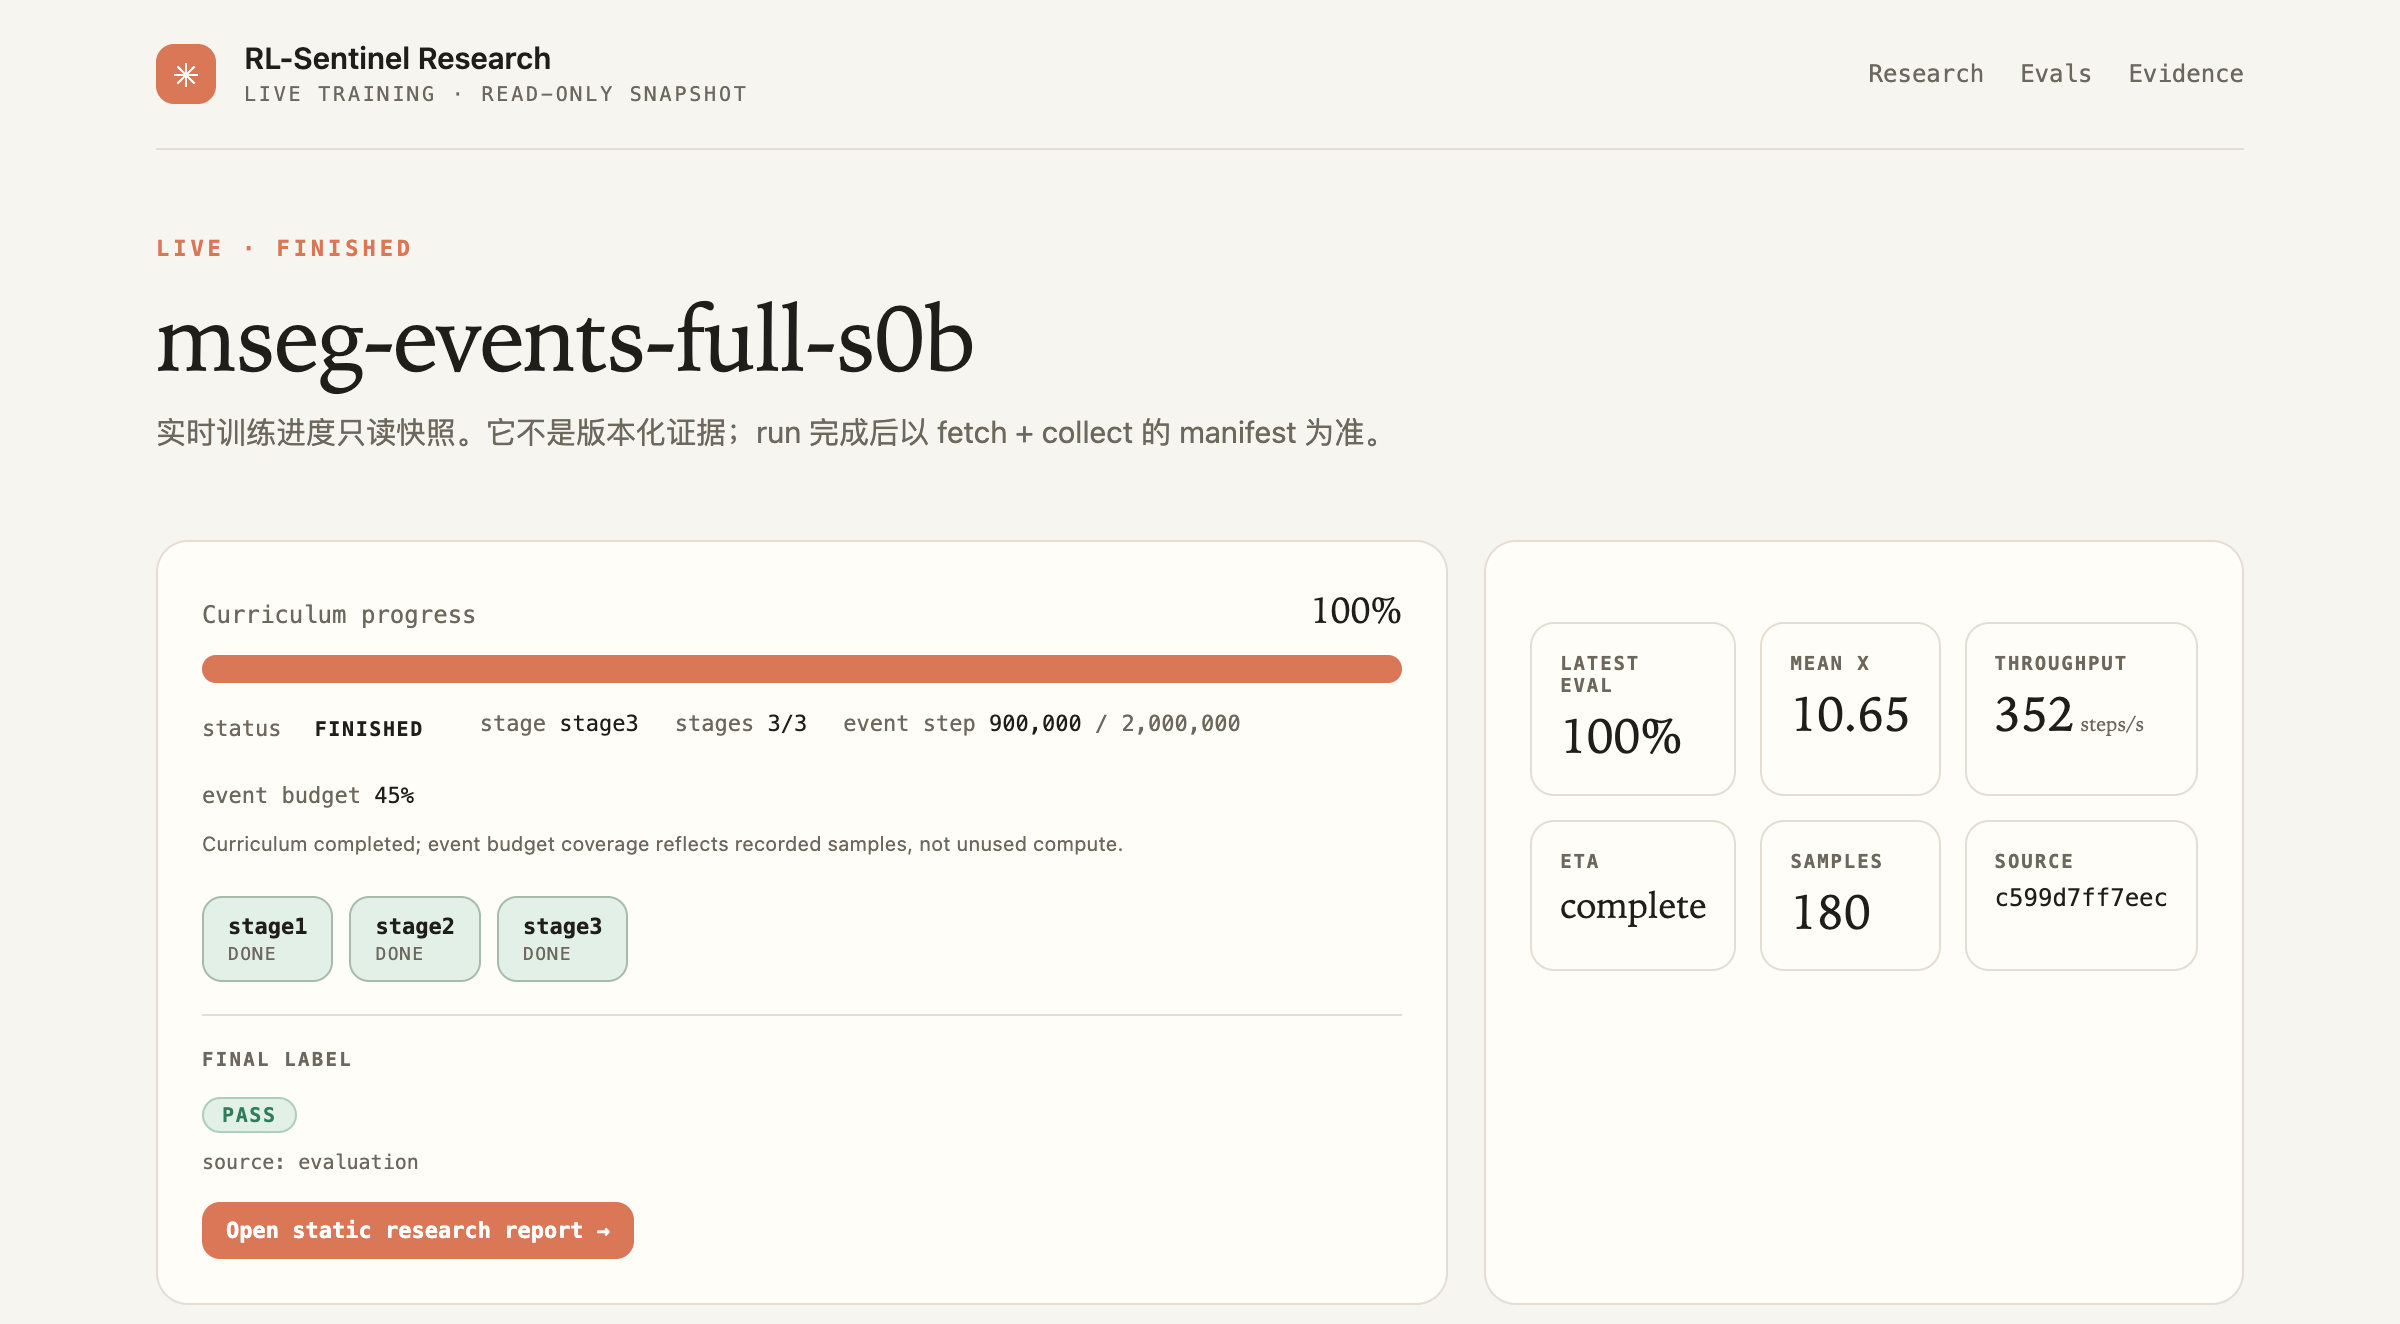
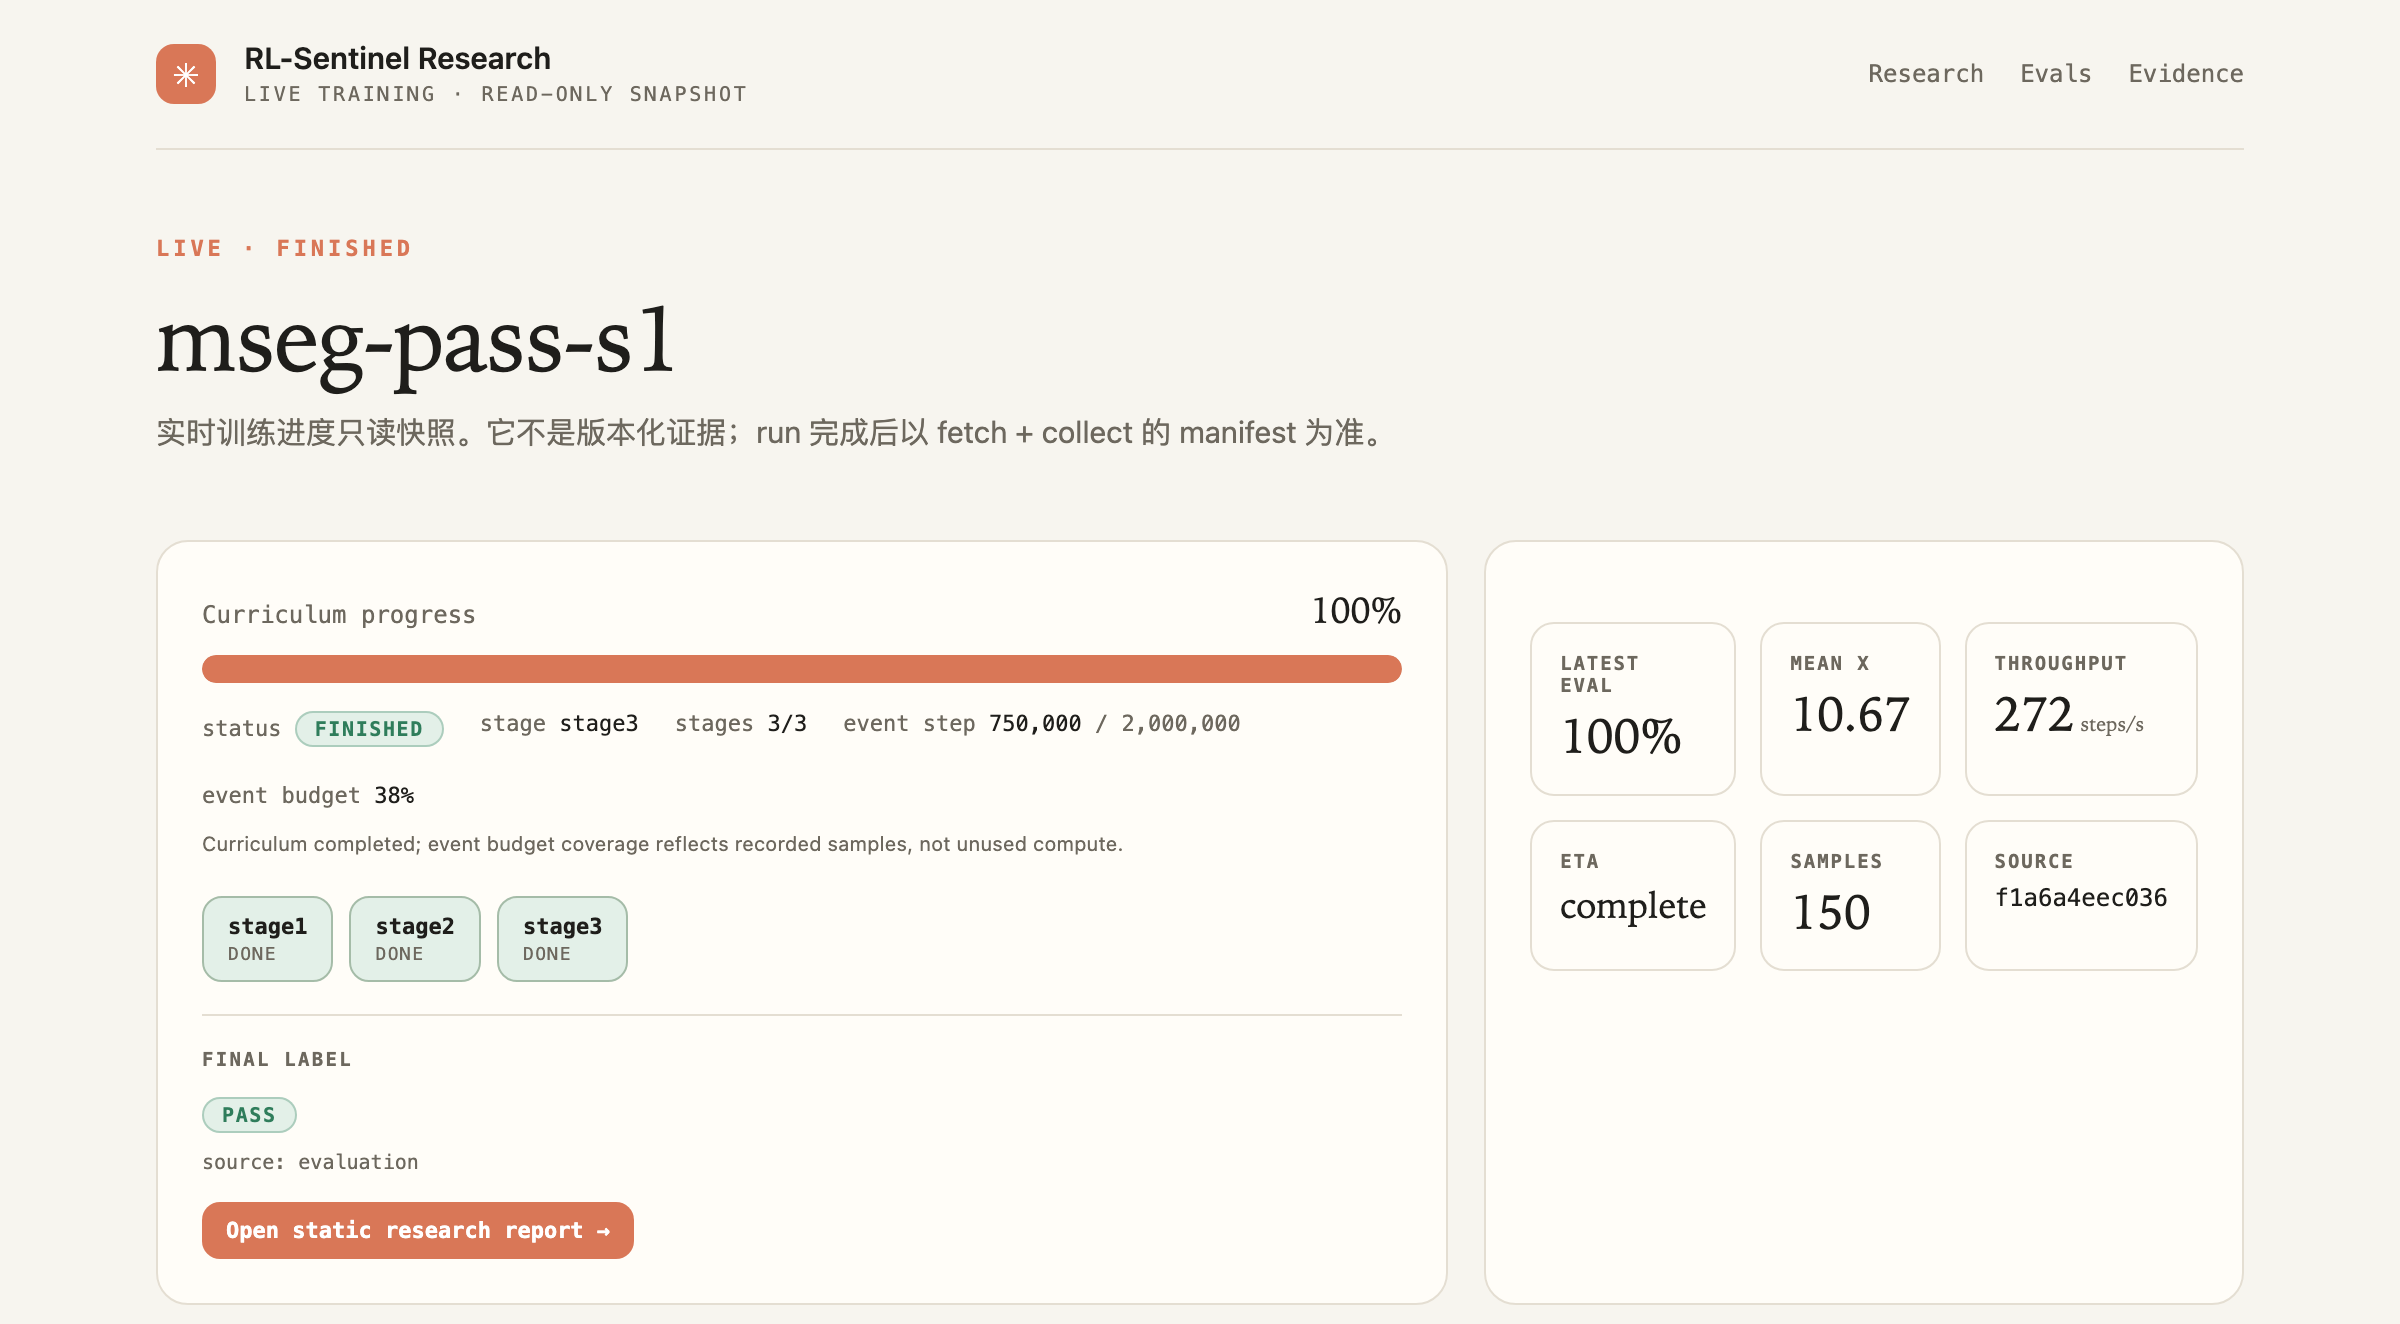
docs: record the 18-run observed matrix and readiness result
Update the READMEs, research-system notes and preview screenshots to dataset 5fd1ca77bcbf4230: 18 observed runs (6 pass / 12 fail), readiness candidate_for_external_validation, and the rules-v2 backtest result. Add a matrix note that documents the zero-S0 failure cohort, the factor IC caveat and the remaining boundaries.

diff --git a/docs/MATRIX_2026-10-19.md b/docs/MATRIX_2026-10-19.md
@@ -1,0 +1,77 @@
+# Observed matrix — 2026-10-19
+
+This note records the first observed cohort large enough to pass the research system's data-sufficiency gate. It is an offline research record, not a live-stopping result.
+
+## Dataset
+
+| Field | Value |
+| --- | --- |
+| `dataset_version` | `5fd1ca77bcbf4230` |
+| Research source | `d45368d` (clean) |
+| Training source | `f1a6a4e` (clean apart from the case-collision phantom `terrain.STL`) |
+| Observed runs | 18 (6 pass / 12 fail / 0 unknown) |
+| Legacy/offline runs | 48 |
+| Readiness | `candidate_for_external_validation` |
+
+The readiness gate requires at least 5 labeled passes and 10 labeled failures. This cohort meets it.
+
+## Composition
+
+All 18 observed runs use the multi-segment task. It is currently the only trainer that emits the v0.2 `start / sample / finish / label` event stream.
+
+| Group | Runs | Configuration | Label |
+| --- | --- | --- | --- |
+| pass | `mseg-events-full-s0b` | full budget, seed 0 | pass |
+| pass | `mseg-pilot-short-s0` | budget scale 0.05, seed 0 | pass |
+| pass | `mseg-pilot-nobc-short-s0` | no BC, budget scale 0.05, seed 0 | pass |
+| pass | `mseg-pass-s1` … `mseg-pass-s3` | full budget, seeds 1–3 | pass |
+| fail | `mseg-fail-zero-s0` … `mseg-fail-zero-s5` | zero-S0, budget scale 0.05, seeds 0–5 | fail |
+| fail | `mseg-fail-zero-short-s0` … `mseg-fail-zero-short-s5` | zero-S0, budget scale 0.02, seeds 0–5 | fail |
+
+### Why the failure group is an S0 ablation
+
+Pilot runs showed that a short budget and no-BC initialization still passed the 20-episode acceptance. The task is robust to those ablations under the scripted low-level controller, so they were not reliable negative samples.
+
+The failure group therefore uses `--s0 zero`: the high-level observation and action interface is unchanged, but the low-level controller emits zero commands. The robot cannot make progress. This is a **controlled negative cohort**, not a natural training failure.
+
+## Backtest
+
+`rules-v2` uses drawdown ≥ 0.30, KL ≥ 0.10, KL-divergent streak ≥ 3, or progress slope ≤ 0 with sufficient coverage.
+
+| Checkpoint | True stops | False stops | Missed failures | Fail recall | Pass kill rate |
+| --- | ---: | ---: | ---: | ---: | ---: |
+| 30% | 2 | 1 | 10 | 0.167 | 0.167 |
+| 50% | 0 | 0 | 12 | 0.000 | 0.000 |
+| 70% | 0 | 0 | 12 | 0.000 | 0.000 |
+
+The data-sufficiency gate is met, but the rule policy is not effective on this cohort. At 50% and 70% it makes no stop decisions; at 30% it catches two failures at the cost of one false stop.
+
+## Factor signal
+
+The strongest checkpoint factors by Spearman IC with the pass/fail label are:
+
+| Factor | Checkpoint | IC | n |
+| --- | ---: | ---: | ---: |
+| `value_loss_last` | 50% | 0.869 | 12 |
+| `kl_last` | 70% | 0.853 | 10 |
+| `value_loss_last` | 70% | 0.853 | 10 |
+| `progress_last` | 30% | 0.849 | 18 |
+| `eval_mean_reward_last` | 30 / 50 / 70% | 0.837 | 13 |
+| `value_loss_slope` | 30% | 0.833 | 18 |
+
+These values separate a controlled zero-S0 failure mode from healthy runs. They are **not** evidence that the factors generalize to natural training failures, other tasks, or production early stopping.
+
+## Evidence
+
+- Compact bundles: Go2W repository `reports/evidence/matrix-2026-10-19/` — 18 bundles, about 1.5 MB, each with a SHA-256 member manifest.
+- Full fetched runs: local `Go2w-MoRA-navigation/rl/runs/_fetched/` (not versioned).
+- Versioned dataset: local `research/data/5fd1ca77bcbf4230/` (not versioned).
+- Static report: local `research/reports/go2w-matrix-2026-10-19/report.html` (not versioned).
+
+## Boundaries
+
+- The failure cohort is an S0 ablation, not a natural failure distribution.
+- The readiness result means the cohort is large enough to discuss; it does not validate the rule policy.
+- All runs are multi-segment. Junction and high-level-curve event logging is still pending.
+- No automatic stop, tuning or resizing is performed.
+- The dataset version is a content hash, not a cryptographic signature.

diff --git a/README.md b/README.md
@@ -17,7 +17,7 @@ RL Sentinel records what a reinforcement-learning run actually knew at each chec
 
 ![RL Sentinel research report](docs/assets/research-report-preview.png)
 
-*Research note generated from the current Go2W dataset: one observed run plus 48 legacy/offline runs. Observed readiness is `blocked`; the report shows it rather than hiding it.*
+*Research note generated from the current Go2W dataset: 18 observed runs (6 pass / 12 fail) plus 48 legacy/offline runs. Observed readiness is `candidate_for_external_validation`; the rule backtest still misses most failures.*
 
 ## Why this exists
 
@@ -116,7 +116,7 @@ The label is never an input. Factor coverage and Spearman IC are reported only w
 - `always-stop` — stop at every checkpoint.
 - `rules-v2` — drawdown ≥ 0.30, KL ≥ 0.10, KL-divergent streak ≥ 3, or progress slope ≤ 0 with sufficient coverage.
 
-The operational gate is deliberately strict: at least **5 passing** and **10 failing** labeled runs. Until then, readiness stays `blocked`. The observed and legacy cohorts are reported separately; legacy rows have no event-time and never count toward the gate.
+The operational gate is deliberately strict: at least **5 passing** and **10 failing** labeled runs. Until then, readiness stays `blocked`. The current matrix meets the gate, so readiness is `candidate_for_external_validation`; that is a data-sufficiency result, not a claim that the rule works. The observed and legacy cohorts are reported separately; legacy rows have no event-time and never count toward the gate.
 
 ### Report and live page
 
@@ -158,11 +158,16 @@ Rules-v2 detected the six late policy-reset failures and missed all six disabled
 
 Zero false stops among six successful runs does **not** establish a zero population error rate. All controlled results remain `readiness: blocked`; no realized compute savings are claimed.
 
-### Observed Go2W run
+### Observed Go2W matrix (2026-10-19)
 
-`mseg-events-full-s0b` completed all three curriculum stages and passed 20 acceptance episodes: success rate 1.0, mean distance 10.6635, mean episode length 1428, final label `pass`.
+The current dataset `5fd1ca77bcbf4230` contains **18 observed runs (6 pass / 12 fail)** plus 48 legacy/offline runs. Readiness is `candidate_for_external_validation`: the cohort is now large enough for the gate, but not enough to claim operational effectiveness.
 
-The current dataset `1a4553c8acd7aa8b` contains **1 observed pass + 48 legacy/offline runs**. Observed readiness is still `blocked`, because the gate requires 5 passes and 10 failures. This proves the pipeline end to end; it does not establish factor efficacy or early-stop value.
+- Pass group: one full-budget run, two short-budget/no-BC pilots that unexpectedly passed, and three full-budget seeds.
+- Fail group: twelve zero-S0 ablation runs. The high-level interface is unchanged, but the low-level controller emits zero commands, so the robot cannot make progress.
+
+The rule backtest is reported as-is. At the 30% checkpoint, `rules-v2` made 2 true stops, 1 false stop and missed 10 of 12 failures. At 50% and 70%, it stopped nothing. The readiness gate is a data-sufficiency gate, not evidence that the rule works.
+
+Top checkpoint factor ICs are high (`value_loss_last` 0.87, `kl_last` 0.85, `progress_last` 0.85), but they separate a controlled zero-S0 failure mode from healthy runs. They are not evidence of generalization to natural training failures. [Matrix protocol and results →](docs/MATRIX_2026-10-19.md)
 
 ## Design rules
 
@@ -211,6 +216,7 @@ The strict-core type gate covers `rl_risk_replay/`. The research layer and histo
 - [Research system](docs/RESEARCH_SYSTEM.md)
 - [v0.2 protocol and migration](docs/RELIABILITY_V2.md)
 - [Validation record, 2026-10-06](docs/VALIDATION_V2_2026-10-06.md)
+- [Observed matrix, 2026-10-19](docs/MATRIX_2026-10-19.md)
 - [Historical validation and metric audit](docs/portfolio-validation.md)
 - [Documentation index](docs/README.md)
 

diff --git a/docs/RESEARCH_SYSTEM.md b/docs/RESEARCH_SYSTEM.md
@@ -194,44 +194,40 @@ python -m research live \
 
 持续刷新时，把两条命令放进 15 秒循环即可；页面自身也会每 15 秒 reload。
 
-## 7. 当前预览状态（2026-10-19）
+## 7. 当前状态（2026-10-19）
 
-- 数据集：`1a4553c8acd7aa8b`，1 个 observed full run（`mseg-events-full-s0b`，label `pass`）+ 48 个 legacy runs
-- observed readiness：`blocked`（1 pass / 0 fail；门槛为 5 pass + 10 fail）
-- legacy cohort：存在历史标签，但 `strict_asof=False`，不计入门槛
-- 报告：`research/reports/go2w-full-s0b/report.html`
+- 数据集：`5fd1ca77bcbf4230`，18 个 observed runs（6 pass / 12 fail）+ 48 个 legacy runs
+- observed readiness：`candidate_for_external_validation`（5 pass + 10 fail 的门槛已满足）
+- 组成：
+  - pass：1 条 full-budget、2 条 short-budget/no-BC pilot、3 条 full-budget seeds 1–3
+  - fail：12 条 zero-S0 消融（seeds 0–5 × 两种预算）
+- 回测：`rules-v2` 在 30% → 2 true stops / 1 false stop / 10 missed；50% 和 70% → 0 stops
+- 因子：最高 IC 约 0.85–0.87，但只区分受控 zero-S0 失败与健康 run
+- 报告：`research/reports/go2w-matrix-2026-10-19/report.html`
 - Live：`research/reports/live/index.html`（只读快照，指向上述静态报告）
 - 预览图：`docs/assets/research-report-preview.png`、`docs/assets/research-live-preview.png`
+- 详细记录：[MATRIX_2026-10-19.md](MATRIX_2026-10-19.md)
 
-这说明研究流水线已跑通，但不构成早停有效性结论。
+这说明数据充分性门槛已通过，但不构成早停有效性结论。
 
-## 8. 下一步：18 条 observed run
+## 8. 18-run observed 矩阵（已完成）
 
-要进入可讨论的策略对照，至少需要：
+矩阵全部使用 multi-segment，因为它是目前唯一接入 v0.2 `start/sample/finish/label` 事件流的 trainer。
 
-```text
-6 pass + 12 fail = 18 observed runs
-```
+pilot 发现短预算和 no-BC 仍能通过验收，因此 fail 组改用 zero-S0 消融：高层接口不变，低层控制器输出零命令。它是受控负样本，不是自然训练失败。
 
-建议矩阵：
+下一步：
 
-- 成功组：multi-segment / junction / high-level-curve × seeds 0,1
-- 失败组：无 BC / 无 pre-brake / 短预算 × seeds 0,1
-- 可选：C++ S0 消融
-
-每条 run 完成后：
-
-1. `tools/win_train.py fetch <job>`
-2. `scripts/collect_run_evidence.py`（Go2W 仓库）
-3. `python -m research build --runs-root <fetched-root> ...`
-4. `python -m research report ...`
-5. 注册 experiment
+1. 给 junction / high-level-curve 接事件 observer，扩展跨任务 cohort。
+2. 用自然失败模式构造负样本，检验因子与规则的外推。
+3. 因子筛选 / FDR、校准与基线模型；按同一协议做 leave-one-future-out。
+4. 每条 run 仍按 `fetch → collect evidence → build → report → registry` 归档。
 
 ## 9. 限制
 
 - 研究层使用 pandas/DuckDB；严格核心仍 stdlib-only。
 - 因子只覆盖事件/评估可见字段；奖励分量、完整轨迹、per-episode stage eval 尚未采集。
 - legacy 数据没有事件时间，不能用于严格 as-of 结论。
-- IC 在小样本下不稳定；当前预览的 IC 多为 N/A。
+- IC 在受控小样本下会偏高；当前高 IC 主要来自 zero-S0 失败模式，不能外推自然失败。
 - 不自动停止训练，不声称生产级早停或真实算力节省。
 - dataset_version 是内容哈希，不是密码学签名。

diff --git a/docs/README.md b/docs/README.md
@@ -10,7 +10,7 @@ Start with the task you need to complete. Historical records remain separate fro
 | Run an experiment / 跑通实验 | [Getting started](GETTING_STARTED.md) · [中文使用指南](GETTING_STARTED.zh-CN.md) |
 | Run quantitative research / 做量化研究 | [Research system / 研究系统](RESEARCH_SYSTEM.md) |
 | Understand event and replay semantics / 理解事件与回放 | [v0.2 protocol, API and migration / 协议、API 与迁移](RELIABILITY_V2.md) |
-| Inspect measured evidence / 核查实测证据 | [October 6, 2026 validation / 2026-10-06 验收记录](VALIDATION_V2_2026-10-06.md) |
+| Inspect measured evidence / 核查实测证据 | [October 6, 2026 validation / 2026-10-06 验收记录](VALIDATION_V2_2026-10-06.md) · [Observed matrix, 2026-10-19 / 2026-10-19 observed 矩阵](MATRIX_2026-10-19.md) |
 | Read the strict implementation / 阅读严格新核心 | [Source](../rl_risk_replay/) · [Tests](../tests_v2/) |
 | Reproduce older analyses / 复核历史分析 | [Historical validation](portfolio-validation.md) · [Archived implementation](../legacy/) |
 
